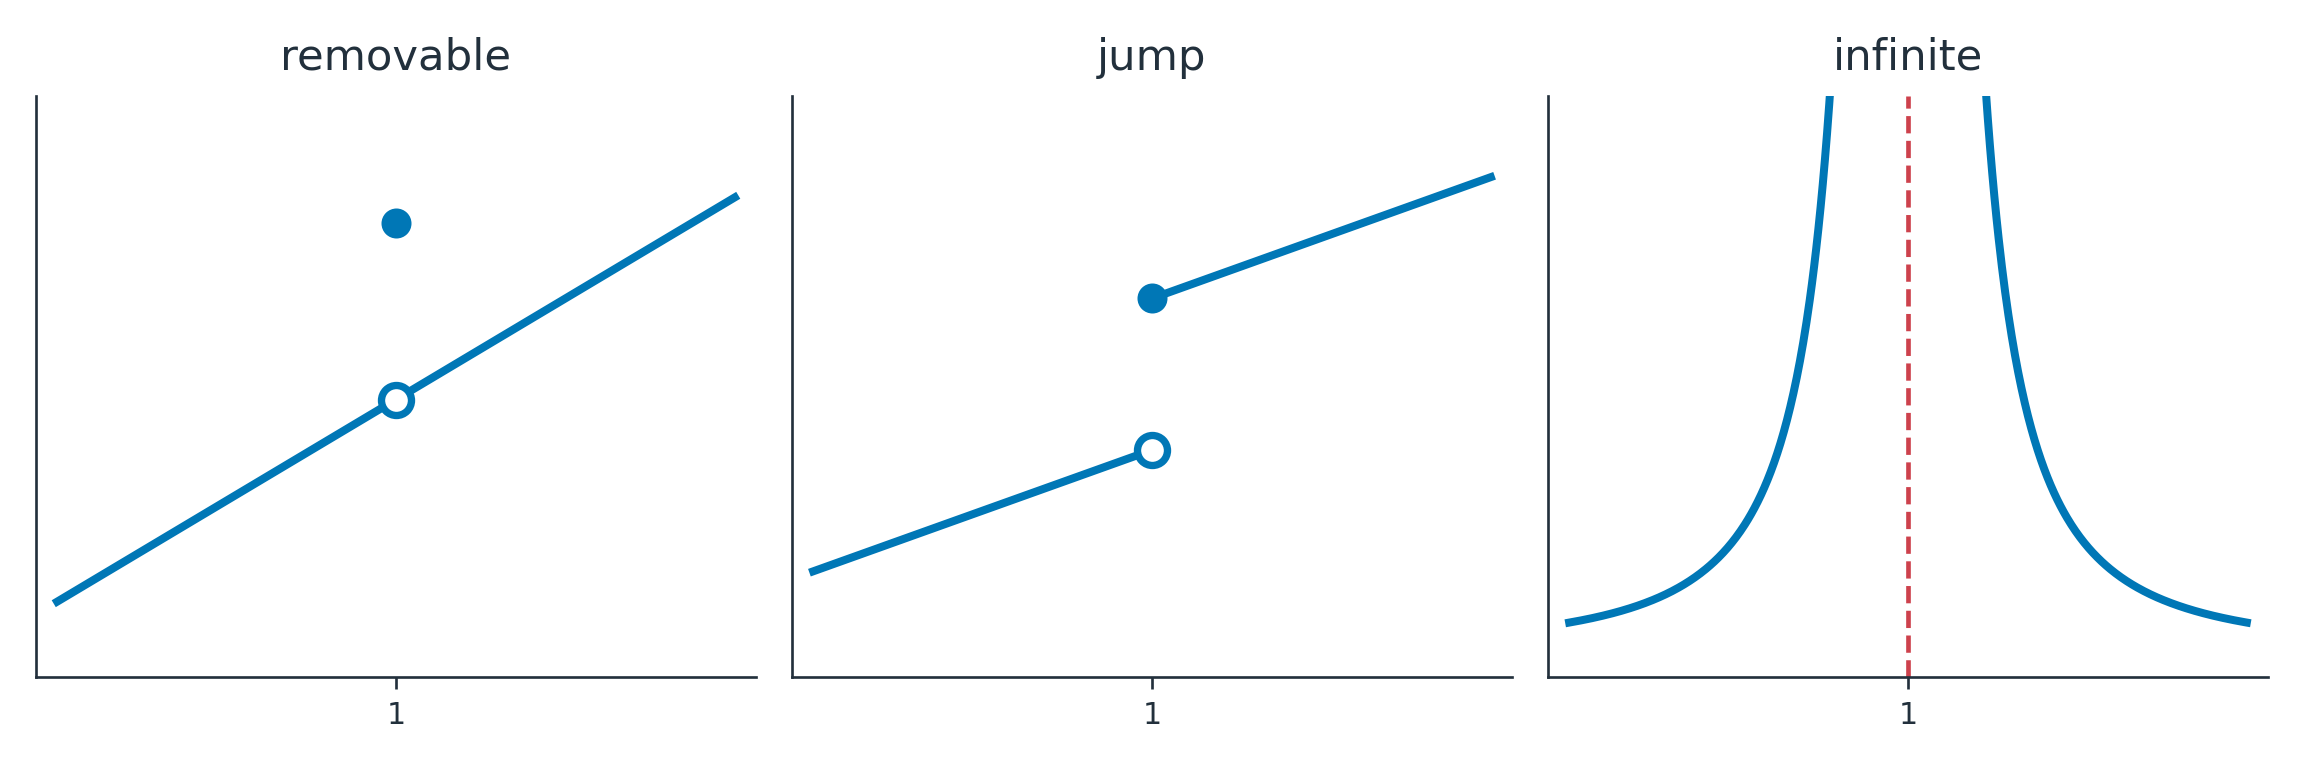
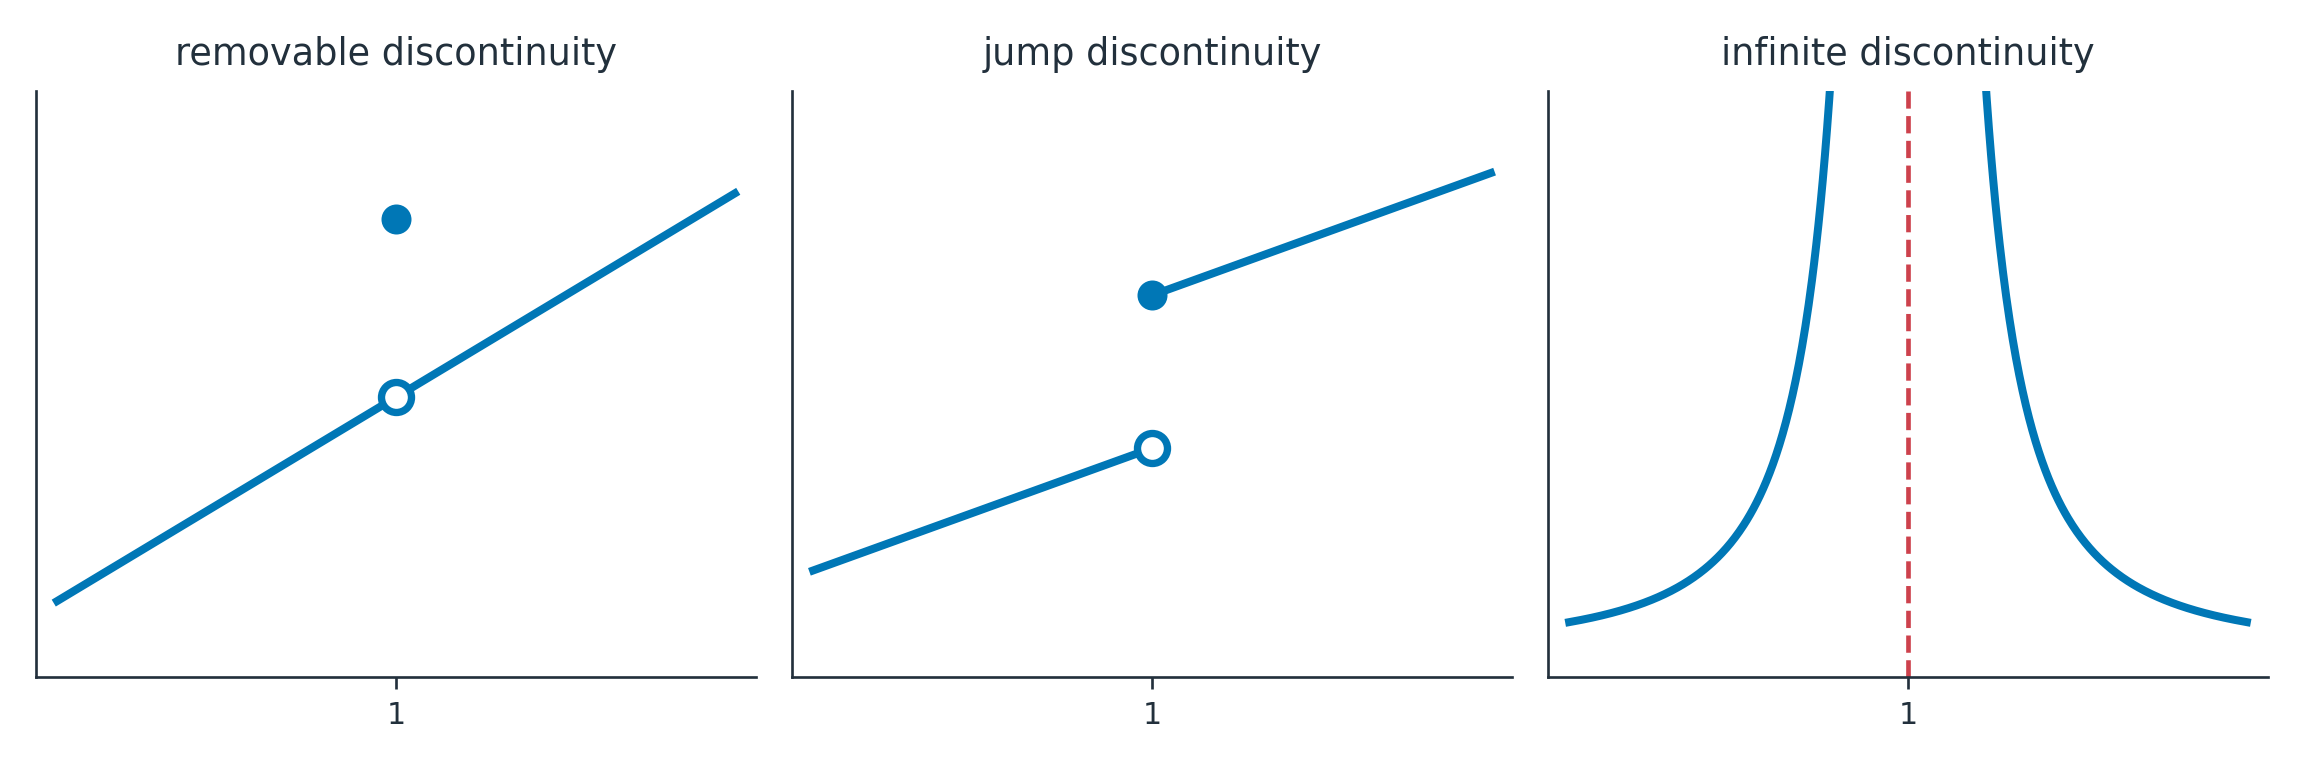
MTH207: update course resources

diff --git a/MTH207/practice/Section_2p5/Section_2p5_class.html b/MTH207/practice/Section_2p5/Section_2p5_class.html
@@ -177,10 +177,10 @@ definition, and today is that definition.</p></div>
 <section class="beat" aria-label="Three Ways to Fail" data-source-line="82">
   <h2>Three Ways to Fail</h2>
 <p>Three requirements, so three ways to break &mdash; and each picture breaks a different one.</p>
-  <figure style="width:92%"><button type="button" class="zoom" data-src="figures/discontinuity_types.png" aria-label="Enlarge figure"><img src="figures/discontinuity_types.png" alt="Three graphs side by side. The first, labelled removable, is a straight line with a hole at x equals 1 and a separate solid dot above it. The second, labelled jump, has the left piece ending at one height and the right piece starting at a higher one. The third, labelled infinite, has the curve shooting up to infinity on both sides of a dashed vertical line at x equals 1."></button></figure>
+  <figure style="width:92%"><button type="button" class="zoom" data-src="figures/discontinuity_types.png" aria-label="Enlarge figure"><img src="figures/discontinuity_types.png" alt="Three graphs side by side. The first, labelled removable discontinuity, is a straight line with a hole at x equals 1 and a separate solid dot above it. The second, labelled jump discontinuity, has the left piece ending at one height and the right piece starting at a higher one. The third, labelled infinite discontinuity, has the curve shooting up to infinity on both sides of a dashed vertical line at x equals 1."></button></figure>
   <div class="turn your"><span class="badge">Your turn</span><p>For each picture, say which of the three requirements fails. Two of them fail the same one &mdash; which two, and why?</p></div>
   <details class="sol"><summary>Show: which requirement each one breaks</summary>
-<ul><li><strong>Removable:</strong> the limit exists and $\displaystyle f(1)$ exists, but they disagree &mdash; requirement 3.</li><li><strong>Jump:</strong> the one-sided limits disagree, so the limit does not exist &mdash; requirement 2.</li><li><strong>Infinite:</strong> the limit does not exist either, and $\displaystyle f(1)$ is not defined &mdash; requirement 2 again, and 1 as well.</li></ul>
+<ul><li><strong>Removable discontinuity:</strong> the limit exists and $\displaystyle f(1)$ exists, but they disagree &mdash; requirement 3.</li><li><strong>Jump discontinuity:</strong> the one-sided limits disagree, so the limit does not exist &mdash; requirement 2.</li><li><strong>Infinite discontinuity:</strong> the limit does not exist either, and $\displaystyle f(1)$ is not defined &mdash; requirement 2 again, and 1 as well.</li></ul>
 Jump and infinite both fail requirement 2. Only the <em>removable</em> one could be fixed by redefining a single value &mdash; which is where the name comes from.
   </details>
 </section>
@@ -193,6 +193,7 @@ Jump and infinite both fail requirement 2. Only the <em>removable</em> one could
 <section class="beat" aria-label="Continuous Where?" data-source-line="120">
   <h2>Continuous Where?</h2>
   <div class="turn my"><span class="badge">My turn</span><p>Is $\displaystyle \tan x$ continuous?</p></div>
+  <figure style="width:88%"><button type="button" class="zoom" data-src="figures/domain_cases.png" aria-label="Enlarge figure"><img src="figures/domain_cases.png" alt="Three graphs. The first, tan x, repeats a rising branch between dashed vertical lines at minus pi over two and pi over two, running down to negative infinity on one side of each line and up from positive infinity on the other. The second, one over x, has two branches either side of a dashed vertical line at zero. The third, the square root of x, starts at a solid dot at the origin and rises to the right, with nothing drawn to the left of it."></button></figure>
 <p>The honest answer is that the question is missing a word. $\displaystyle \tan x$ is continuous
 <strong>at every point of its domain</strong>. But $\displaystyle x = \pi/2$ is not in its domain &mdash; there
 is nothing there to be continuous <em>or</em> discontinuous.</p>
@@ -209,7 +210,7 @@ stated the Direct Substitution Property for polynomials and rational functions
 only: their domains have no endpoints, so the question could not come up.</p>
   <div class="key"><p>"Continuous" is always <strong>at a point</strong>, or <strong>on an interval</strong>. A function is not continuous or discontinuous in the abstract, and the domain decides which points are even candidates.</p></div>
 </section>
-<section class="beat" aria-label="Making It Continuous On Purpose" data-source-line="155">
+<section class="beat" aria-label="Making It Continuous On Purpose" data-source-line="157">
   <h2>Making It Continuous On Purpose</h2>
 <div class="boxed ex"><span class="badge ex">Example 1</span><p>Find the value of $\displaystyle c$ that makes $\displaystyle g$ continuous at $\displaystyle x=2$:</p>
 <div class="dm">$$g(x) \;=\; \begin{cases} x^2 + c, & x < 2\\[2pt] 3x - 1, & x \ge 2\end{cases}$$</div></div>
@@ -224,14 +225,14 @@ only: their domains have no endpoints, so the question could not come up.</p>
   </div>
   <div class="key"><p>Nothing was guessed. Each requirement became one line, and the only unknown fell out of requirement 2.</p></div>
 </section>
-<section class="beat" aria-label="You Cannot Cross Without Landing" data-source-line="186">
+<section class="beat" aria-label="You Cannot Cross Without Landing" data-source-line="188">
   <h2>You Cannot Cross Without Landing</h2>
 <div class="boxed thm"><span class="badge thm">Theorem &mdash; Intermediate Value Theorem</span><p>Suppose $\displaystyle f$ is <strong>continuous</strong> on $\displaystyle [a,b]$, and $\displaystyle N$ is any number between $\displaystyle f(a)$ and $\displaystyle f(b)$. Then there is at least one $\displaystyle c$ in $\displaystyle (a,b)$ with</p>
 <div class="dm">$$f(c) = N$$</div></div>
   <figure style="width:64%"><button type="button" class="zoom" data-src="figures/ivt.png" aria-label="Enlarge figure"><img src="figures/ivt.png" alt="A continuous curve from the point a to the point b, with a dashed horizontal line at height N drawn between f of a and f of b. The curve crosses that line, and the crossing point is marked c on the horizontal axis."></button></figure>
   <div class="key"><p>Read it as a sentence about drawing: if you start below $\displaystyle N$ and finish above it without lifting your pen, you crossed $\displaystyle N$ somewhere. <strong>At least one</strong> $\displaystyle c$ &mdash; the theorem promises a crossing, not a single crossing.</p></div>
 </section>
-<section class="beat" aria-label="Why &quot;Continuous&quot; Is the Hypothesis" data-source-line="200">
+<section class="beat" aria-label="Why &quot;Continuous&quot; Is the Hypothesis" data-source-line="202">
   <h2>Why &quot;Continuous&quot; Is the Hypothesis</h2>
   <div class="turn your"><span class="badge">Your turn</span><p>Sketch a function on $\displaystyle [0,2]$ with $\displaystyle f(0)=-1$ and $\displaystyle f(2)=1$ that <em>never</em> equals $\displaystyle 0$. What must your sketch have?</p></div>
   <details class="sol"><summary>Show: what your sketch needs</summary>
@@ -240,7 +241,7 @@ in $\displaystyle [0,2]$, and that is exactly what the theorem rules out.</p>
   </details>
   <div class="key"><p>Drop "continuous" and the theorem is simply false. It is not decoration on the statement; it is the statement.</p></div>
 </section>
-<section class="beat" aria-label="Using the IVT: Showing a Root Exists" data-source-line="218">
+<section class="beat" aria-label="Using the IVT: Showing a Root Exists" data-source-line="220">
   <h2>Using the IVT: Showing a Root Exists</h2>
 <div class="boxed ex"><span class="badge ex">Example 2</span><p>Show that $\displaystyle x^3 - x - 1 = 0$ has a solution between $\displaystyle 1$ and $\displaystyle 2$.</p></div>
   <div class="turn your"><span class="badge">Your turn</span><p>You are not being asked to solve it. What <em>are</em> you being asked for, and what would you have to check?</p></div>
@@ -253,14 +254,14 @@ in $\displaystyle [0,2]$, and that is exactly what the theorem rules out.</p>
   </div>
   <div class="key"><p>Three lines: continuous, the two values straddle $\displaystyle N$, cite the theorem. The IVT tells you a root <strong>exists</strong> &mdash; it never tells you where.</p></div>
 </section>
-<section class="beat" aria-label="Where This Goes" data-source-line="241">
+<section class="beat" aria-label="Where This Goes" data-source-line="243">
   <h2>Where This Goes</h2>
 <p>Continuity is the hypothesis on nearly every theorem left in this course &mdash; the
 Extreme Value Theorem, the Mean Value Theorem, and the Fundamental Theorem of
 Calculus all open with "suppose $\displaystyle f$ is continuous".</p>
   <div class="key"><p>Next: what happens to $\displaystyle f(x)$ as $\displaystyle x$ runs off to infinity, rather than toward a point. Same limit idea, different question.</p></div>
 </section>
-<section class="beat" aria-label="What You Should Be Able to Do" data-source-line="252">
+<section class="beat" aria-label="What You Should Be Able to Do" data-source-line="254">
   <h2>What You Should Be Able to Do</h2>
 <ul><li>State the three requirements for continuity at a point, and say which one a given graph breaks.</li><li>Name a discontinuity as removable, jump or infinite.</li><li>Find a constant that makes a piecewise function continuous at a point.</li><li>State the IVT with its hypothesis, and use it to show a root exists.</li><li>Say why "continuous at every point of its domain" is the careful phrasing.</li></ul>
 </section>

diff --git a/MTH207/notes/Section_2p5/Section_2p5_home.html b/MTH207/notes/Section_2p5/Section_2p5_home.html
@@ -175,10 +175,10 @@ definition, and today is that definition.</p></div>
 <section class="beat" aria-label="Three Ways to Fail" data-source-line="82">
   <h2>Three Ways to Fail</h2>
 <p>Three requirements, so three ways to break &mdash; and each picture breaks a different one.</p>
-  <figure style="width:92%"><button type="button" class="zoom" data-src="figures/discontinuity_types.png" aria-label="Enlarge figure"><img src="figures/discontinuity_types.png" alt="Three graphs side by side. The first, labelled removable, is a straight line with a hole at x equals 1 and a separate solid dot above it. The second, labelled jump, has the left piece ending at one height and the right piece starting at a higher one. The third, labelled infinite, has the curve shooting up to infinity on both sides of a dashed vertical line at x equals 1."></button></figure>
+  <figure style="width:92%"><button type="button" class="zoom" data-src="figures/discontinuity_types.png" aria-label="Enlarge figure"><img src="figures/discontinuity_types.png" alt="Three graphs side by side. The first, labelled removable discontinuity, is a straight line with a hole at x equals 1 and a separate solid dot above it. The second, labelled jump discontinuity, has the left piece ending at one height and the right piece starting at a higher one. The third, labelled infinite discontinuity, has the curve shooting up to infinity on both sides of a dashed vertical line at x equals 1."></button></figure>
   <div class="turn your"><span class="badge">Your turn</span><p>For each picture, say which of the three requirements fails. Two of them fail the same one &mdash; which two, and why?</p></div>
   <div class="sol shown">
-<ul><li><strong>Removable:</strong> the limit exists and $\displaystyle f(1)$ exists, but they disagree &mdash; requirement 3.</li><li><strong>Jump:</strong> the one-sided limits disagree, so the limit does not exist &mdash; requirement 2.</li><li><strong>Infinite:</strong> the limit does not exist either, and $\displaystyle f(1)$ is not defined &mdash; requirement 2 again, and 1 as well.</li></ul>
+<ul><li><strong>Removable discontinuity:</strong> the limit exists and $\displaystyle f(1)$ exists, but they disagree &mdash; requirement 3.</li><li><strong>Jump discontinuity:</strong> the one-sided limits disagree, so the limit does not exist &mdash; requirement 2.</li><li><strong>Infinite discontinuity:</strong> the limit does not exist either, and $\displaystyle f(1)$ is not defined &mdash; requirement 2 again, and 1 as well.</li></ul>
 Jump and infinite both fail requirement 2. Only the <em>removable</em> one could be fixed by redefining a single value &mdash; which is where the name comes from.
   </div>
 </section>
@@ -191,6 +191,7 @@ Jump and infinite both fail requirement 2. Only the <em>removable</em> one could
 <section class="beat" aria-label="Continuous Where?" data-source-line="120">
   <h2>Continuous Where?</h2>
   <div class="turn my"><span class="badge">My turn</span><p>Is $\displaystyle \tan x$ continuous?</p></div>
+  <figure style="width:88%"><button type="button" class="zoom" data-src="figures/domain_cases.png" aria-label="Enlarge figure"><img src="figures/domain_cases.png" alt="Three graphs. The first, tan x, repeats a rising branch between dashed vertical lines at minus pi over two and pi over two, running down to negative infinity on one side of each line and up from positive infinity on the other. The second, one over x, has two branches either side of a dashed vertical line at zero. The third, the square root of x, starts at a solid dot at the origin and rises to the right, with nothing drawn to the left of it."></button></figure>
 <p>The honest answer is that the question is missing a word. $\displaystyle \tan x$ is continuous
 <strong>at every point of its domain</strong>. But $\displaystyle x = \pi/2$ is not in its domain &mdash; there
 is nothing there to be continuous <em>or</em> discontinuous.</p>
@@ -207,7 +208,7 @@ stated the Direct Substitution Property for polynomials and rational functions
 only: their domains have no endpoints, so the question could not come up.</p>
   <div class="key"><p>"Continuous" is always <strong>at a point</strong>, or <strong>on an interval</strong>. A function is not continuous or discontinuous in the abstract, and the domain decides which points are even candidates.</p></div>
 </section>
-<section class="beat" aria-label="Making It Continuous On Purpose" data-source-line="155">
+<section class="beat" aria-label="Making It Continuous On Purpose" data-source-line="157">
   <h2>Making It Continuous On Purpose</h2>
 <div class="boxed ex"><span class="badge ex">Example 1</span><p>Find the value of $\displaystyle c$ that makes $\displaystyle g$ continuous at $\displaystyle x=2$:</p>
 <div class="dm">$$g(x) \;=\; \begin{cases} x^2 + c, & x < 2\\[2pt] 3x - 1, & x \ge 2\end{cases}$$</div></div>
@@ -221,14 +222,14 @@ only: their domains have no endpoints, so the question could not come up.</p>
   </div>
   <div class="key"><p>Nothing was guessed. Each requirement became one line, and the only unknown fell out of requirement 2.</p></div>
 </section>
-<section class="beat" aria-label="You Cannot Cross Without Landing" data-source-line="186">
+<section class="beat" aria-label="You Cannot Cross Without Landing" data-source-line="188">
   <h2>You Cannot Cross Without Landing</h2>
 <div class="boxed thm"><span class="badge thm">Theorem &mdash; Intermediate Value Theorem</span><p>Suppose $\displaystyle f$ is <strong>continuous</strong> on $\displaystyle [a,b]$, and $\displaystyle N$ is any number between $\displaystyle f(a)$ and $\displaystyle f(b)$. Then there is at least one $\displaystyle c$ in $\displaystyle (a,b)$ with</p>
 <div class="dm">$$f(c) = N$$</div></div>
   <figure style="width:64%"><button type="button" class="zoom" data-src="figures/ivt.png" aria-label="Enlarge figure"><img src="figures/ivt.png" alt="A continuous curve from the point a to the point b, with a dashed horizontal line at height N drawn between f of a and f of b. The curve crosses that line, and the crossing point is marked c on the horizontal axis."></button></figure>
   <div class="key"><p>Read it as a sentence about drawing: if you start below $\displaystyle N$ and finish above it without lifting your pen, you crossed $\displaystyle N$ somewhere. <strong>At least one</strong> $\displaystyle c$ &mdash; the theorem promises a crossing, not a single crossing.</p></div>
 </section>
-<section class="beat" aria-label="Why &quot;Continuous&quot; Is the Hypothesis" data-source-line="200">
+<section class="beat" aria-label="Why &quot;Continuous&quot; Is the Hypothesis" data-source-line="202">
   <h2>Why &quot;Continuous&quot; Is the Hypothesis</h2>
   <div class="turn your"><span class="badge">Your turn</span><p>Sketch a function on $\displaystyle [0,2]$ with $\displaystyle f(0)=-1$ and $\displaystyle f(2)=1$ that <em>never</em> equals $\displaystyle 0$. What must your sketch have?</p></div>
   <div class="sol shown">
@@ -237,7 +238,7 @@ in $\displaystyle [0,2]$, and that is exactly what the theorem rules out.</p>
   </div>
   <div class="key"><p>Drop "continuous" and the theorem is simply false. It is not decoration on the statement; it is the statement.</p></div>
 </section>
-<section class="beat" aria-label="Using the IVT: Showing a Root Exists" data-source-line="218">
+<section class="beat" aria-label="Using the IVT: Showing a Root Exists" data-source-line="220">
   <h2>Using the IVT: Showing a Root Exists</h2>
 <div class="boxed ex"><span class="badge ex">Example 2</span><p>Show that $\displaystyle x^3 - x - 1 = 0$ has a solution between $\displaystyle 1$ and $\displaystyle 2$.</p></div>
   <div class="turn your"><span class="badge">Your turn</span><p>You are not being asked to solve it. What <em>are</em> you being asked for, and what would you have to check?</p></div>
@@ -249,14 +250,14 @@ in $\displaystyle [0,2]$, and that is exactly what the theorem rules out.</p>
   </div>
   <div class="key"><p>Three lines: continuous, the two values straddle $\displaystyle N$, cite the theorem. The IVT tells you a root <strong>exists</strong> &mdash; it never tells you where.</p></div>
 </section>
-<section class="beat" aria-label="Where This Goes" data-source-line="241">
+<section class="beat" aria-label="Where This Goes" data-source-line="243">
   <h2>Where This Goes</h2>
 <p>Continuity is the hypothesis on nearly every theorem left in this course &mdash; the
 Extreme Value Theorem, the Mean Value Theorem, and the Fundamental Theorem of
 Calculus all open with "suppose $\displaystyle f$ is continuous".</p>
   <div class="key"><p>Next: what happens to $\displaystyle f(x)$ as $\displaystyle x$ runs off to infinity, rather than toward a point. Same limit idea, different question.</p></div>
 </section>
-<section class="beat" aria-label="What You Should Be Able to Do" data-source-line="252">
+<section class="beat" aria-label="What You Should Be Able to Do" data-source-line="254">
   <h2>What You Should Be Able to Do</h2>
 <ul><li>State the three requirements for continuity at a point, and say which one a given graph breaks.</li><li>Name a discontinuity as removable, jump or infinite.</li><li>Find a constant that makes a piecewise function continuous at a point.</li><li>State the IVT with its hypothesis, and use it to show a root exists.</li><li>Say why "continuous at every point of its domain" is the careful phrasing.</li></ul>
 </section>
